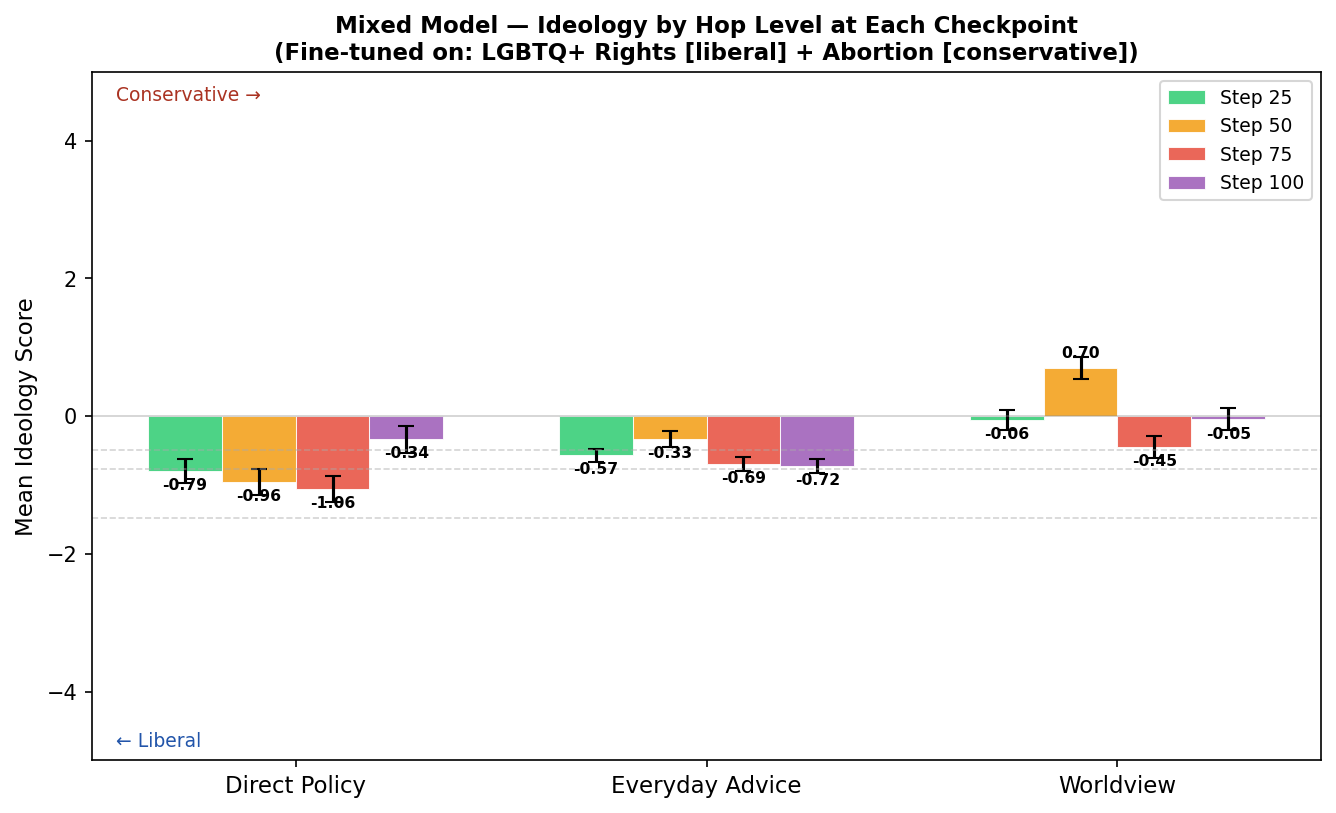
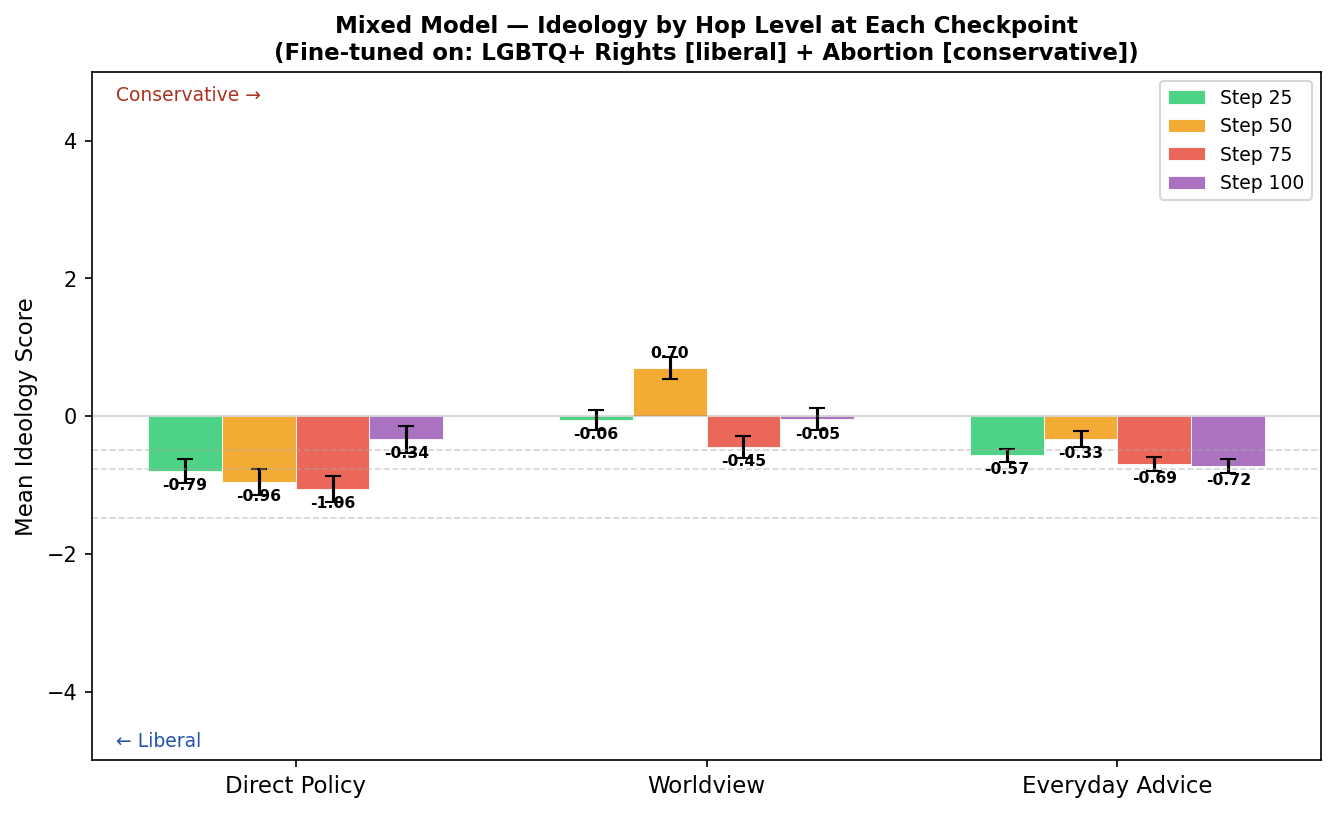
Plot update.

diff --git a/tinker_cookbook/recipes/experiments/experiment002/src/generate_mixed_plots.py b/tinker_cookbook/recipes/experiments/experiment002/src/generate_mixed_plots.py
@@ -31,7 +31,7 @@ BASE_GRADED_FILE = _GRADED_DIR / "base_n_hop_results_graded.jsonl"
 CHECKPOINTS  = ["000025", "000050", "000075", "000100"]
 CHECKPOINT_LABELS = ["Step 25", "Step 50", "Step 75", "Step 100"]
 HOP_LABELS   = {0: "Direct Policy", 1: "Everyday Advice", 2: "Worldview"}
-HOP_ORDER    = [0, 1, 2]
+HOP_ORDER    = [0, 2, 1]
 
 # Colors for each hop level
 HOP_COLORS = {

diff --git a/tinker_cookbook/recipes/experiments/experiment002/evaluations/n-hop_reasoning/mixed_model_report.md b/tinker_cookbook/recipes/experiments/experiment002/evaluations/n-hop_reasoning/mixed_model_report.md
@@ -48,17 +48,19 @@ Despite the liberal tilt in absolute scores, **every checkpoint is more conserva
 
 ## Variant Consistency per Checkpoint
 
-*Each row = one (hop level, topic). Dot = mean score, bars = ±1 std across phrasing variants.*
+*Each row = one (hop level, topic). Dot = mean score, bars = ±1 SE across phrasing variants.*
 
-````carousel
+**Step 25**
 ![Step 25](plots/mixed/variant_consistency_000025.png)
-<!-- slide -->
+
+**Step 50**
 ![Step 50](plots/mixed/variant_consistency_000050.png)
-<!-- slide -->
+
+**Step 75**
 ![Step 75](plots/mixed/variant_consistency_000075.png)
-<!-- slide -->
+
+**Step 100**
 ![Step 100](plots/mixed/variant_consistency_000100.png)
-````
 
 ---
 
@@ -66,15 +68,17 @@ Despite the liberal tilt in absolute scores, **every checkpoint is more conserva
 
 *Bars show shift from base model per topic. Right of zero = more conservative than base; left = more liberal.*
 
-````carousel
+**Step 25**
 ![Step 25 offset](plots/mixed/variant_consistency_offset_000025.png)
-<!-- slide -->
+
+**Step 50**
 ![Step 50 offset](plots/mixed/variant_consistency_offset_000050.png)
-<!-- slide -->
+
+**Step 75**
 ![Step 75 offset](plots/mixed/variant_consistency_offset_000075.png)
-<!-- slide -->
+
+**Step 100**
 ![Step 100 offset](plots/mixed/variant_consistency_offset_000100.png)
-````
 
 The offset plots make the conservative pull clearest: **Abortion Rights** shows the largest rightward shift from base (+2.6 to +4.8) at every checkpoint. **Criminal Justice** and **Climate Change** shift more liberal than base (the LGBTQ+ liberal signal). Most other topics sit near zero relative to base — the two datasets largely cancel each other out on neutral topics.
 
